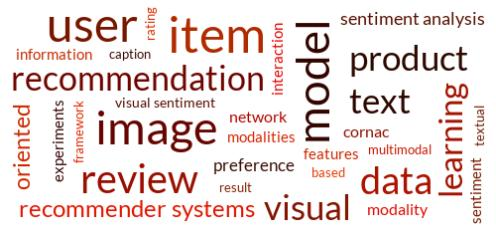
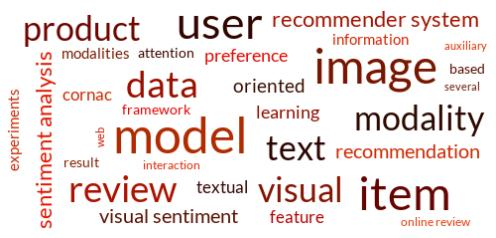
update

diff --git a/index.html b/index.html
@@ -11,7 +11,7 @@
         content="Trương Quốc Tuấn, Truong Quoc Tuan, Machine Learning, Information Retrieval, Deep Learning, Representation Learning, Multimodal Learning, Preference Learning, Recommender Systems, Text Mining, Sentiment Analysis, Computer Vision">
     <meta name="author" content="Quoc-Tuan Truong">
 
-    <link rel="stylesheet" type="text/css" href="./assets/style.css?v=1.15" media="all">
+    <link rel="stylesheet" type="text/css" href="./assets/style.css?v=1.16" media="all">
     <link rel="shortcut icon" type="image/x-icon" href="favicon.ico">
 
     <title>Quoc-Tuan Truong</title>
@@ -101,7 +101,8 @@
                             onclick="trackEvent('http://www.hadylauw.com/', 'view', 'info', 'www.hadylauw.com');">Hady
                             W. Lauw</a>. I grew up in
                         Vietnam and went to <a target="_blank" href="https://vnu.edu.vn/eng/"
-                            onclick="trackEvent('https://vnu.edu.vn/eng/', 'view', 'info', 'VNU Hanoi');">Vietnam National University</a> in Hanoi for my undergraduate studies.
+                            onclick="trackEvent('https://vnu.edu.vn/eng/', 'view', 'info', 'VNU Hanoi');">Vietnam
+                            National University</a> in Hanoi for my undergraduate studies.
                     </p>
                 </div>
                 <div class="bio-col-2 image-blurred-edge">
@@ -111,7 +112,7 @@
 
             <div id="research">
                 <div class="research-col-1">
-                    <img src="./assets/wc.jpg?v=1.12" />
+                    <img src="./assets/wc.jpg?v=1.13" />
                 </div>
                 <div class="research-col-2">
                     <p id="title"><strong>Research Interests:</strong>
@@ -137,6 +138,11 @@
                     Scholar</a>]
             </h3>
             <ul id="papers">
+                <li class="tuto">
+                    T. H. Le, Q. T. Truong, A. Salah, and H. W. Lauw.
+                    <strong>Multi-Modal Recommender Systems: Towards Addressing Sparsity, Comparability, and Explainability</strong>.
+                    Tutorial at <i>ACM Web Conference (WWW)</i>, 2023.
+                </li>
                 <li class="conf">
                     Q. T. Truong and H. W. Lauw.
                     <strong>Concept-Oriented Transformers for Visual Sentiment Analysis</strong>.
@@ -151,6 +157,17 @@
                         onclick="trackEvent('https://drive.google.com/file/d/11RafUBl7stFlDB_eXJy0S1KBYCOdLk3x', 'pdf', 'publications', 'www22');">pdf</a>]
                     [<a target="_blank" href="https://drive.google.com/file/d/1gTCafX-W1TUB0l9dO1m7Dsm-7RCq4_-w"
                         onclick="trackEvent('https://drive.google.com/file/d/1gTCafX-W1TUB0l9dO1m7Dsm-7RCq4_-w', 'slides', 'publications', 'www22');">slides</a>]
+                </li>
+                <li class="tuto">
+                    Q. T. Truong, A. Salah, and H. W. Lauw.
+                    <strong>Multi-Modal Recommender Systems: Hands-On Exploration</strong>.
+                    Tutorial at <i>ACM Conference on Recommender Systems (RecSys)</i>, 2021.&nbsp;&nbsp;&nbsp;
+                    [<a target="_blank" href="https://recsys.acm.org/recsys21/tutorials/#content-tab-1-1-tab"
+                        onclick="trackEvent('https://recsys.acm.org/recsys21/tutorials/#content-tab-1-1-tab', 'abstract', 'tutorials', 'recsys21');">abstract</a>]
+                    [<a target="_blank" href="https://drive.google.com/file/d/1dB7Q-NydIgxewlnjFkIT5k-6p1Qlp4ZG"
+                        onclick="trackEvent('https://drive.google.com/file/d/1dB7Q-NydIgxewlnjFkIT5k-6p1Qlp4ZG', 'pdf', 'tutorials', 'recsys21');">pdf</a>]
+                    [<a target="_blank" href="https://github.com/PreferredAI/tutorials/tree/master/multimodal-recsys"
+                        onclick="trackEvent('https://github.com/PreferredAI/tutorials/tree/master/multimodal-recsys', 'materials', 'tutorials', 'recsys21');">materials</a>]
                 </li>
                 <li class="jour">
                     Q. T. Truong and H. W. Lauw.
@@ -312,19 +329,7 @@
                         onclick="trackEvent('https://drive.google.com/file/d/1VZc4xnXWenH7FSpbcKnSh2ryO1YSe0xK', 'pdf', 'publications', 'aciids16b');">pdf</a>]
                 </li>
                 <h3 class="div"></h3>
-                <li class="tuto">
-                    Q. T. Truong, A. Salah, and H. W. Lauw.
-                    <strong>Multi-Modal Recommender Systems: Hands-On Exploration</strong>.
-                    Tutorial at <i>ACM Conference on Recommender Systems (RecSys)</i>, 2021.&nbsp;&nbsp;&nbsp;
-                    [<a target="_blank" href="https://recsys.acm.org/recsys21/tutorials/#content-tab-1-1-tab"
-                        onclick="trackEvent('https://recsys.acm.org/recsys21/tutorials/#content-tab-1-1-tab', 'abstract', 'tutorials', 'recsys21');">abstract</a>]
-                    [<a target="_blank" href="https://drive.google.com/file/d/1dB7Q-NydIgxewlnjFkIT5k-6p1Qlp4ZG"
-                        onclick="trackEvent('https://drive.google.com/file/d/1dB7Q-NydIgxewlnjFkIT5k-6p1Qlp4ZG', 'pdf', 'tutorials', 'recsys21');">pdf</a>]
-                    [<a target="_blank" href="https://github.com/PreferredAI/tutorials/tree/master/multimodal-recsys"
-                        onclick="trackEvent('https://github.com/PreferredAI/tutorials/tree/master/multimodal-recsys', 'materials', 'tutorials', 'recsys21');">materials</a>]
-                </li>
-                <h3 class="div"></h3>
-                <li class="conf">
+                <li class="thesis">
                     Q. T. Truong.
                     <strong>Modeling Sentiments and Preferences from Multimodal Data</strong>.
                     <i>PhD Dissertation</i>, 2022.&nbsp;&nbsp;&nbsp;
@@ -336,7 +341,7 @@
                     [<a target="_blank" href="https://open.spotify.com/episode/32OVARwSzjGKaDE7k6sCXD"
                         onclick="trackEvent('https://open.spotify.com/episode/32OVARwSzjGKaDE7k6sCXD', 'podcast', 'dissertation', 'phd');">podcast</a>]
                 </li>
-                <li class="conf">
+                <li class="thesis">
                     Q. T. Truong.
                     <strong>Developing a Lightweight Mobile Virtual Assistant
                         for Vietnamese:

diff --git a/assets/style.css b/assets/style.css
@@ -72,15 +72,19 @@ ul#papers li {
 }
 
 ul#papers li.tuto {
-    border-left: 3px solid maroon;
+    border-left: 3px solid Peru;
 }
 
 ul#papers li.conf {
-    border-left: 3px solid maroon;
+    border-left: 3px solid Maroon;
 }
 
 ul#papers li.jour {
-    border-left: 3px solid maroon;
+    border-left: 3px solid MidnightBlue;
+}
+
+ul#papers li.thesis {
+    border-left: 3px solid DarkSlateGray;
 }
 
 #lastUpdated {
@@ -149,7 +153,7 @@ ul#papers li.jour {
 .research-col-2 {
     width: 48%;
     float: left;
-    /* margin-top: 3px; */
+    margin-top: 5px;
     margin-bottom: 30px;
     text-align: justify;
 }

diff --git a/wc.py b/wc.py
@@ -1,4 +1,10 @@
 text = """
+Multi-Modal Recommender Systems: Towards Addressing Sparsity, Comparability, and Explainability
+Web applications frequently feature a recommender system to help users discover items (e.g., products, content articles) of interest. This tutorial focuses on multi-modality, i.e., the use of side information such as text, images, or graphs to augment the preference data.  In particular, we cover several important aspects of multi-modality.  First is how models rely on the auxiliary modality to address the sparsity of preference observations in order to better bridge users and items. These models are typically designed along modality lines, which we cover comprehensively. Second is how to manage comparison and cross-utilization of multi-modal models.  The former is concerned with streamlining the treatment of models that share the same modality. The latter is concerned with using a model initially designed for one modality with another.  Third is how the auxiliary modalities could act as recommendation explanations, as recipients may find textual, visual, or graphical explanations more intuitive. This is a hands-on tutorial, whereby lectures are supplemented with exercises conducted with Cornac (https://cornac.preferred.ai), a comparative framework for multimodal recommender systems.
+
+Concept-Oriented Transformers for Visual Sentiment Analysis
+In the richly multimedia Web, detecting sentiment signals expressed in images would support multiple applications, e.g., measuring customer satisfaction from online reviews, analyzing trends and opinions from social media.  Given an image, visual sentiment analysis aims at recognizing positive or negative sentiment, and occasionally neutral sentiment as well.  The task can be formulated as image classification with many approaches, from SIFT feature engineering to recent deep neural networks.  A nascent yet promising direction is Transformer-based models applied to image data, whereby Vision Transformer (ViT) establishes remarkable performance on large-scale vision benchmarks.  In addition to investigating the fitness of ViT for visual sentiment analysis, we further incorporate concept orientation into the self-attention mechanism, which is the core component of Transformer.  The proposed model captures the relationships between image features and specific concepts.  We conduct extensive experiments on Visual Sentiment Ontology (VSO) and Yelp.com online review datasets, showing that not only does the proposed model significantly improve upon the base model ViT in detecting visual sentiment but it also outperforms previous visual sentiment analysis models with narrowly-defined orientations.  Additional analyses yield insightful results and better understanding of the concept-oriented self-attention mechanism.
+
 AmpSum: Adaptive Multiple-Product Summarization towards Improving Recommendation Captions
 In e-commerce websites, multiple related product recommendations are usually organized into “widgets”, each given a name, as a recommendation caption, to describe the products within. These recommendation captions are usually manually crafted and generic in nature, making it difficult to attach meaningful and informative names at scale. As a result, the captions are inadequate in helping customers to better understand the connection between the multiple recommendations and make faster product discovery. We propose an Adaptive Multiple-Product Summarization framework (AmpSum) that automatically and adaptively generates widget captions based on different recommended products. The multiplicity of products to be summarized in a widget caption is particularly novel. The lack of well-developed labels motivates us to design a weakly supervised learning approach with distant supervision to bootstrap the model learning from pseudo labels, and then fine-tune the model with a small amount of manual labels. To validate the efficacy of this method, we conduct extensive experiments on several product categories of Amazon data. The results demonstrate that our proposed framework consistently outperforms state-of-the-art baselines over 9.47-29.14% on ROUGE and 27.31% on METEOR. With case studies, we illustrate how AmpSum could adaptively generate summarization based on different product recommendations.
 
